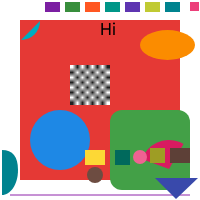
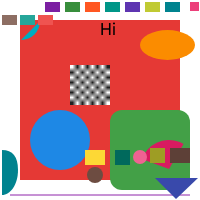
Add MODIFIER_TOUCH_DOWN/UP/CANCEL support
RecordingModifier.onTouchDown/onTouchUp/onTouchCancel each write only
their opcode tag (219/220/225 respectively) with no payload, before
opening the same nested action-list-closed-by-CONTAINER_END shape as
MODIFIER_CLICK/MODIFIER_MULTI_CLICK. Confirmed via
onTouchDown/Up/Cancel(HostAction(9)): each opcode is immediately
followed by HOST_ACTION's [9] then CONTAINER_END, with nothing in
between the opcode tag and the nested action.

Added a brown/teal/red row of boxes to the rc-writer sample and
regenerated SamplePayload.kt (byte-verified against
tools/rc-writer/sample.rc). Desktop render confirmed correct. 37 real
opcodes now supported.

Claude-Session: https://claude.ai/code/session_01GQQ3LnfhXR1mA4HeBBDnYg

Changed region(s): [[0.0, 0.06, 0.27, 0.15]]

diff --git a/src/commonMain/kotlin/com/example/remotecompose/demo/SamplePayload.kt b/src/commonMain/kotlin/com/example/remotecompose/demo/SamplePayload.kt
@@ -19,11 +19,13 @@ import kotlin.io.encoding.ExperimentalEncodingApi
  * wrapped in a `startBox`/`endBox` carrying an `offset()` modifier, a small teal rect wrapped in a
  * `startBox`/`endBox` carrying a `border()` modifier, a small purple rect wrapped in a
  * `startBox`/`endBox` carrying a `clip(RectShape(...))` modifier, a small olive rect wrapped in
- * a `startBox`/`endBox` carrying a `clip(RoundedRectShape(...))` modifier, and a small teal rect
- * wrapped in a `startBox`/`endBox` carrying an `onLongClick(HostAction(9))` modifier), not by
- * anything in this codebase. Shared by every platform demo entry point (iOS, Android) so they
- * render byte-identical input — the point of the cross-platform comparison is to catch *rendering*
- * differences, not to accidentally compare two different payloads.
+ * a `startBox`/`endBox` carrying a `clip(RoundedRectShape(...))` modifier, a small teal rect
+ * wrapped in a `startBox`/`endBox` carrying an `onLongClick(HostAction(9))` modifier, and a second
+ * row of a brown/teal/red rect each wrapped in a `startBox`/`endBox` carrying an `onTouchDown`/
+ * `onTouchUp`/`onTouchCancel(HostAction(9))` modifier respectively), not by anything in this
+ * codebase. Shared by every platform demo entry point (iOS, Android) so they render byte-identical
+ * input — the point of the cross-platform comparison is to catch *rendering* differences, not to
+ * accidentally compare two different payloads.
  */
 @OptIn(ExperimentalEncodingApi::class)
 val SAMPLE_RC_BYTES: ByteArray by lazy {
@@ -47,6 +49,9 @@ val SAMPLE_RC_BYTES: ByteArray by lazy {
[7 lines of base64/hex data omitted]
+            "KkIYAABBcAAAQlQAAEHIAADW1g=="
     )
 }

diff --git a/src/commonMain/kotlin/com/example/remotecompose/parser/RealRemoteComposeParser.kt b/src/commonMain/kotlin/com/example/remotecompose/parser/RealRemoteComposeParser.kt
@@ -287,6 +287,17 @@ object RealRemoteComposeParser {
     private const val OP_MODIFIER_MULTI_CLICK = 83
 
     /**
+     * `Operations.MODIFIER_TOUCH_DOWN`/`_UP`/`_CANCEL` — `RecordingModifier.onTouchDown`/
+     * `onTouchUp`/`onTouchCancel` each write only the opcode tag (no payload) before opening the
+     * same nested action-list-closed-by-[OP_CONTAINER_END] shape as [OP_MODIFIER_CLICK], confirmed
+     * via `onTouchDown/Up/Cancel(HostAction(9))` each decoding to the opcode immediately followed
+     * by [OP_HOST_ACTION]'s `[9]` then [OP_CONTAINER_END].
+     */
+    private const val OP_MODIFIER_TOUCH_DOWN = 219
+    private const val OP_MODIFIER_TOUCH_UP = 220
+    private const val OP_MODIFIER_TOUCH_CANCEL = 225
+
+    /**
      * `drawTextAnchored` carries no font-size parameter — real font sizing comes from a text style
      * this minimal parser doesn't yet decode — so text is drawn at a fixed, reasonable default.
      */
@@ -517,6 +528,9 @@ object RealRemoteComposeParser {
 
                 OP_MODIFIER_MULTI_CLICK -> reader.readS32() // clickType — just opens a nested action list
 
+                OP_MODIFIER_TOUCH_DOWN, OP_MODIFIER_TOUCH_UP, OP_MODIFIER_TOUCH_CANCEL ->
+                    Unit // no payload — just opens a nested action list
+
                 else -> throw RemoteComposeParseException(
                     "Real opcode $opId is outside the minimal subset this demo parser supports " +
                         "(Header/DataText/RootContentDescription/PaintBundle/DrawRect/DrawCircle/" +
@@ -525,7 +539,8 @@ object RealRemoteComposeParser {
[1 lines of base64/hex data omitted]
                         "ModifierClick/HostAction/ModifierPadding/ModifierBackground/" +
[1 lines of base64/hex data omitted]
-                        "ModifierRoundedClipRect/ModifierMultiClick)",
+                        "ModifierRoundedClipRect/ModifierMultiClick/ModifierTouchDown/" +
+                        "ModifierTouchUp/ModifierTouchCancel)",
                 )
             }
         }

diff --git a/tools/rc-writer/src/main/kotlin/Main.kt b/tools/rc-writer/src/main/kotlin/Main.kt
@@ -173,6 +173,27 @@ fun main() {
     writer.drawRect(165f, 2f, 180f, 12f)
     writer.endBox()
 
+    writer.startBox(RecordingModifier().onTouchDown(HostAction(9)), 0, 0)
+    writer.getRcPaint()
+        .setColor(0xFF8D6E63.toInt())
+        .commit()
+    writer.drawRect(2f, 15f, 17f, 25f)
+    writer.endBox()
+
+    writer.startBox(RecordingModifier().onTouchUp(HostAction(9)), 0, 0)
+    writer.getRcPaint()
+        .setColor(0xFF26A69A.toInt())
+        .commit()
+    writer.drawRect(20f, 15f, 35f, 25f)
+    writer.endBox()
+
+    writer.startBox(RecordingModifier().onTouchCancel(HostAction(9)), 0, 0)
+    writer.getRcPaint()
+        .setColor(0xFFEF5350.toInt())
+        .commit()
+    writer.drawRect(38f, 15f, 53f, 25f)
+    writer.endBox()
+
     val bytes = writer.encodeToByteArray()
     File("sample.rc").writeBytes(bytes)
     println("wrote ${bytes.size} bytes to sample.rc")
